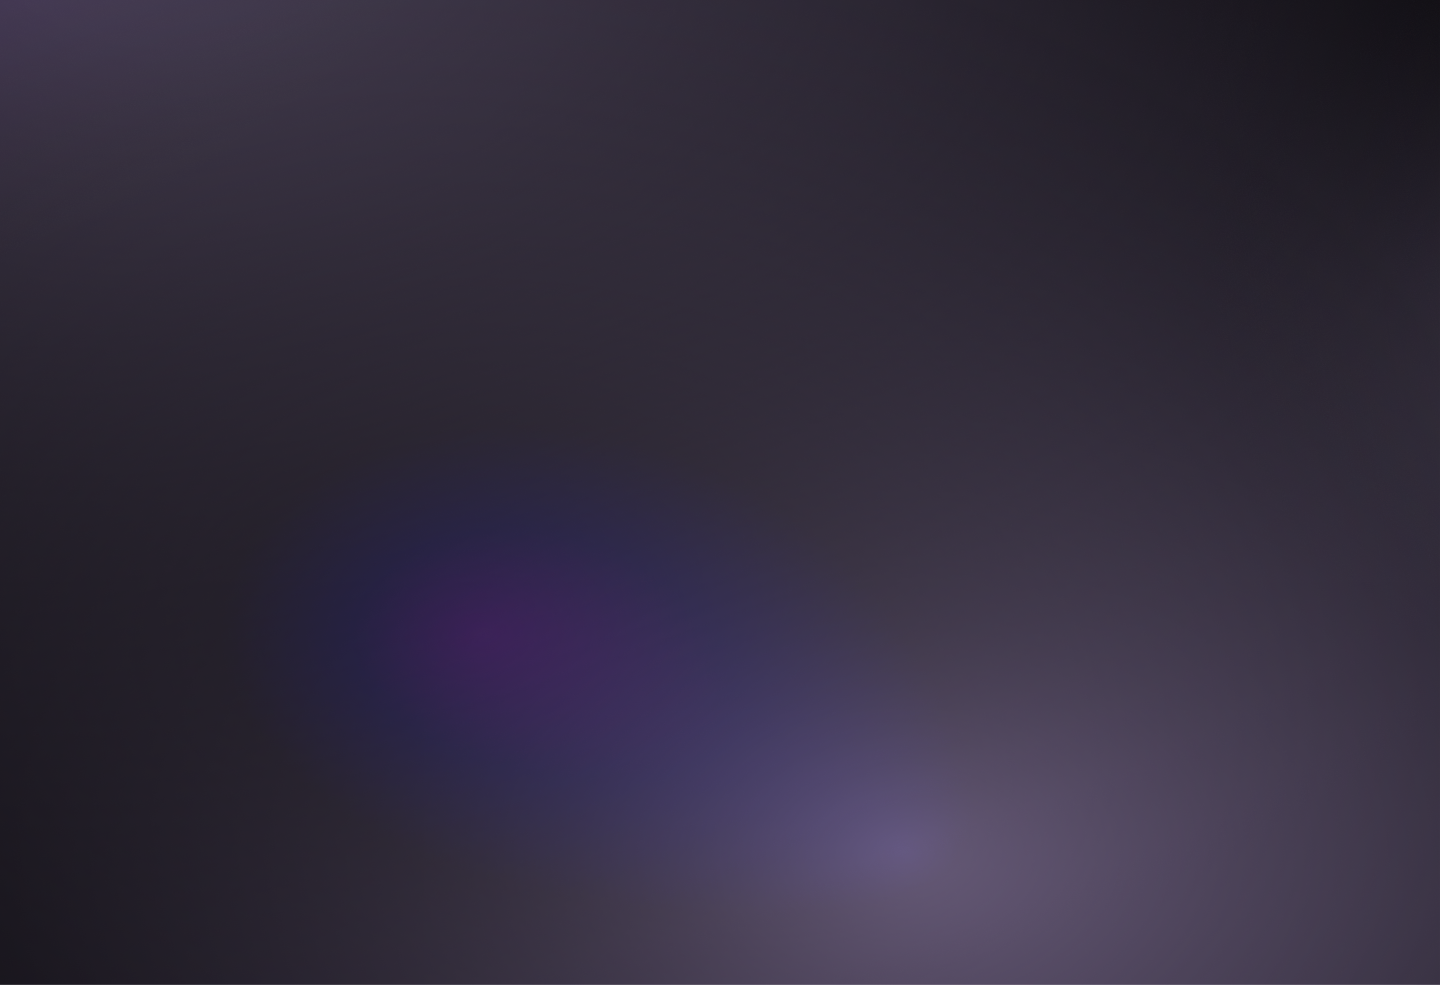
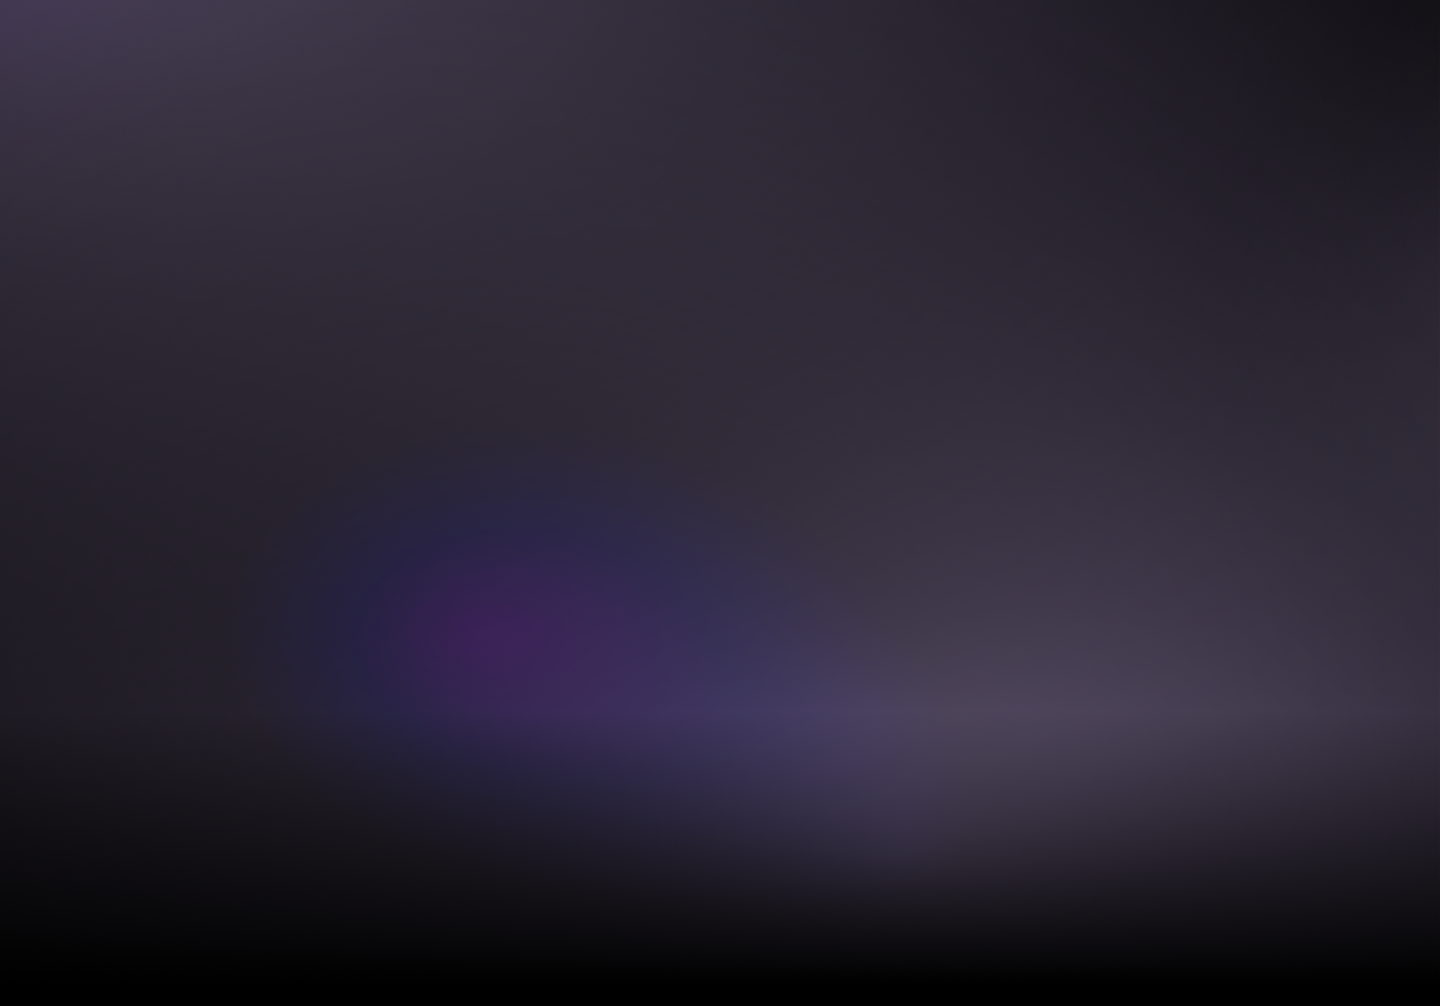
fix: hero zindex

Changed region(s): [[0.0, 0.7614, 1.0, 1.0]]

diff --git a/app/page.jsx b/app/page.jsx
@@ -517,7 +517,7 @@ const HomePage = async () => {
 	const content = await fetchContent();
 
 	return (
-		<>
+		<div className={classnames(styles.background)}>
 			<NavBar />
 
       <div className="w-screen h-full fixed left-0 top-0 z-10">
@@ -527,7 +527,7 @@ const HomePage = async () => {
 			<div
 				className={classnames(
 						styles.heroBackdrop,
-						"flex flex-col items-start py-6 md:py-12 relative z-0"
+						"flex flex-col items-start py-6 md:py-12 relative z-10"
 					)}
           id="header"
       >
@@ -686,7 +686,7 @@ const HomePage = async () => {
 					</div>
 				</div>
 			</div>
-		</>
+		</div>
 	);
 };
 

diff --git a/app/styles.module.scss b/app/styles.module.scss
@@ -6,12 +6,19 @@
 	}
 }
 
-.heroBackdrop {
+.background {
 	background-image: url('../public/background.png');
 	background-repeat: no-repeat;
-	background-size: cover;
-	background-position: bottom center;
-	z-index: -1;
+	background-size: contain;
+	background-position: top center;
+}
+
+.heroBackdrop {
+	// background-image: url('../public/background.png');
+	// background-repeat: no-repeat;
+	// background-size: cover;
+	// background-position: bottom center;
+	// z-index: -1;
 
 	// background: linear-gradient(168.65deg, rgba(255, 255, 255, 0.27) -2.45%, rgba(255, 255, 255, 0) 75.41%);
 	// backdrop-filter: blur(22.5px);
